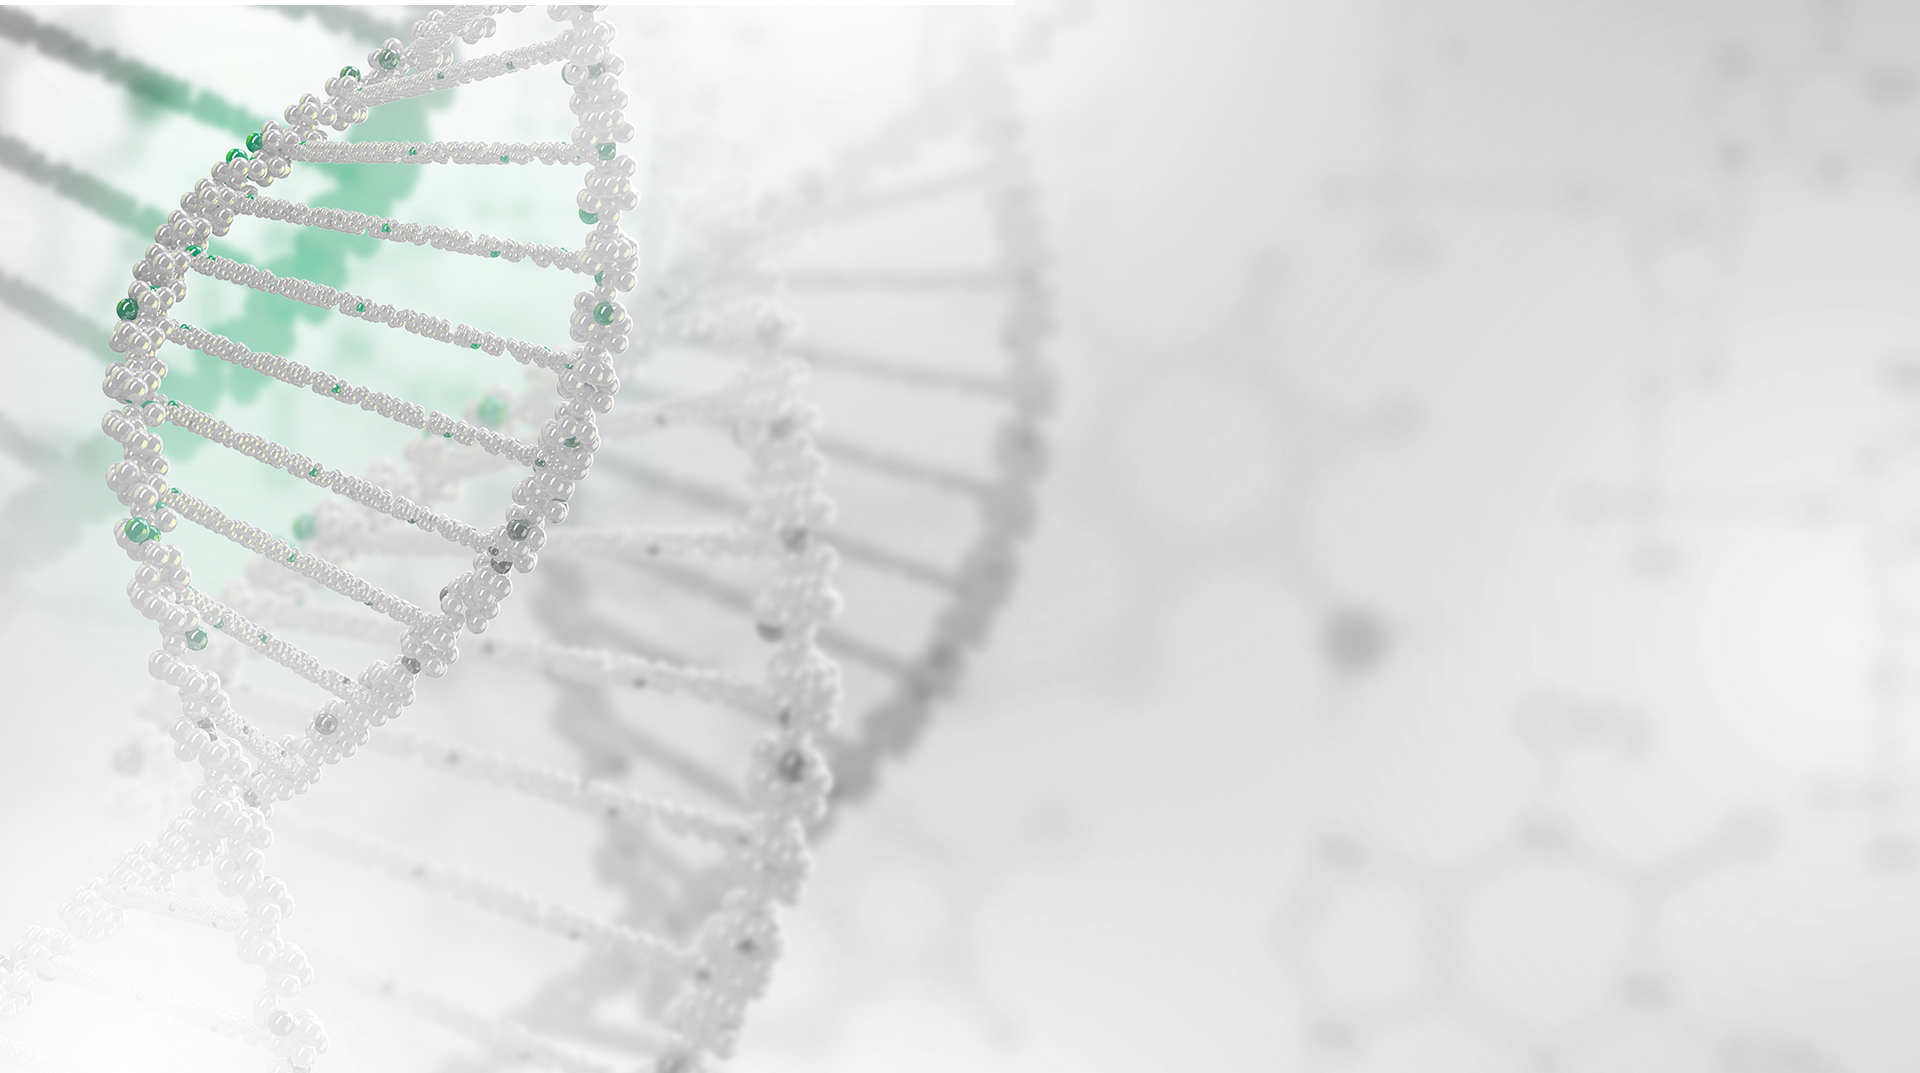
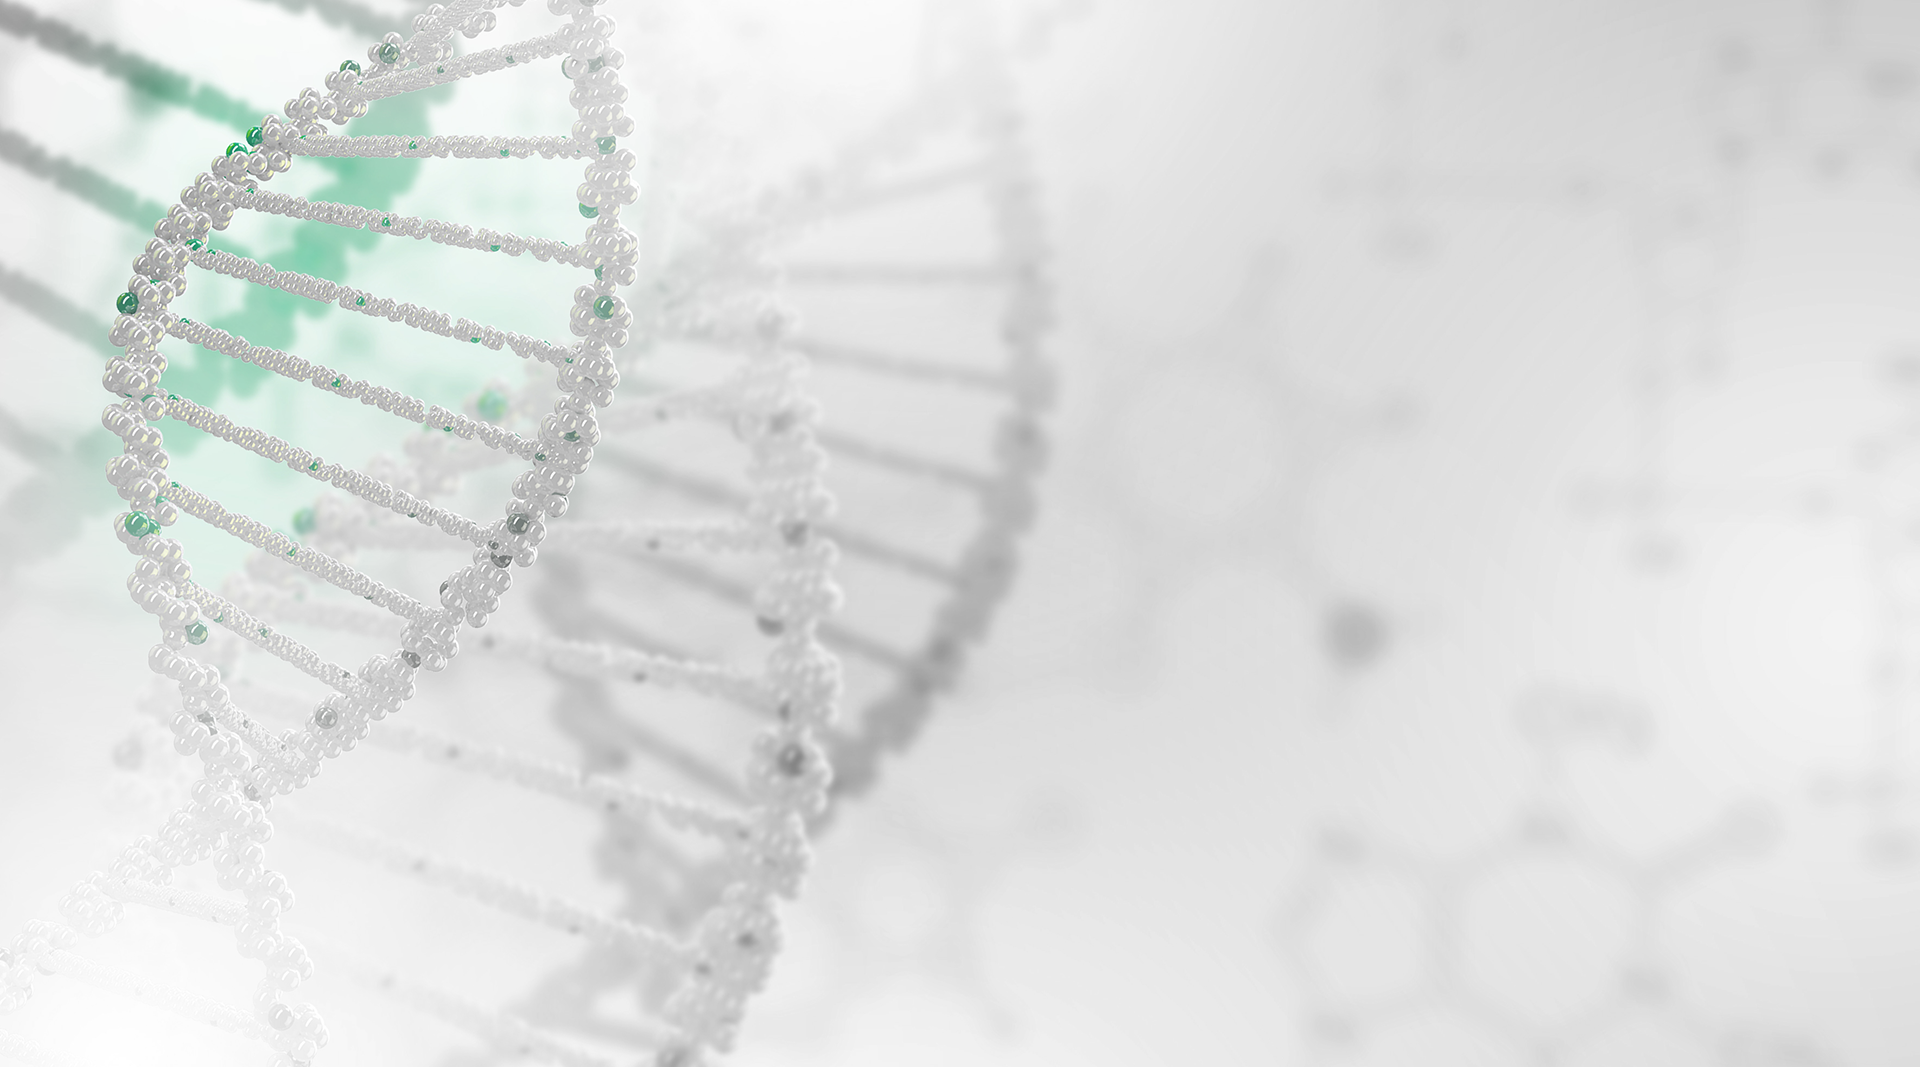
header 수정

diff --git a/css/index.css b/css/index.css
@@ -41,22 +41,21 @@ header {
 }
 
 .swiper-slide:nth-child(1) {
-  background: url("../img/bg/index_bg_1.png") no-repeat;
-  background-size: cover;
+  background: url("../img/bg/index_bg_1.png") 0px 0px / 100% auto no-repeat;
 }
 
 .swiper-slide:nth-child(2) {
-  background: url("../img/bg/index_bg_2.png") no-repeat;
+  background: url("../img/bg/index_bg_2.png") 0px 0px / 100% auto no-repeat;
   background-size: cover;
 }
 
 .swiper-slide:nth-child(3) {
-  background: url("../img/bg/index_bg_3.png") no-repeat;
+  background: url("../img/bg/index_bg_3.png") 0px 0px / 100% auto no-repeat;
   background-size: cover;
 }
 
 .swiper-slide:nth-child(4) {
-  background: url("../img/bg/index_bg_4.png") no-repeat;
+  background: url("../img/bg/index_bg_4.png") 0px 0px / 100% auto no-repeat;
   background-size: cover;
 }
 
@@ -70,4 +69,26 @@ header {
   height: 100%;
   background: url("../img/bg/index_bg_5.png") no-repeat;
   background-size: cover;
+}
+
+.swiper-container-vertical > .swiper-pagination-bullets {
+  right: 11%;
+}
+
+.swiper-pagination-bullet {
+  width: 16px;
+  height: 16px;
+  border: 1px solid #fabe00;
+  opacity: 1;
+  background: transparent;
+}
+
+.swiper-pagination-bullet-active {
+  background: #fabe00;
+}
+
+.swiper-container-vertical
+  > .swiper-pagination-bullets
+  .swiper-pagination-bullet {
+  margin: 24px 0;
 }

diff --git a/css/styles.css b/css/styles.css
@@ -100,7 +100,7 @@ body {
   align-items: center;
 }
 
-#menu ul li a {
+#menu ul.wrap li a {
   display: table;
   margin: auto;
   position: relative;
@@ -142,11 +142,12 @@ body {
   z-index: 1000;
 }
 
-#menu .sub_wrap li a {
+#menu ul.sub_wrap li a {
   position: relative;
   display: block;
   z-index: 1000;
   text-align: center;
+  color: transparent;
 }
 
 #header .side_btn {
@@ -197,6 +198,14 @@ body {
 }
 
 #header .header-area.active #menu ul li a {
+  font-size: 17px;
+  font-weight: bold;
+  line-height: 1.39;
+  letter-spacing: -0.17px;
+  color: #161616;
+}
+
+#header .header-area.active #menu ul.sub_wrap li a {
   font-size: 16px;
   font-weight: 300;
   line-height: 1.88;
@@ -204,7 +213,7 @@ body {
   color: #626262;
 }
 
-#header .header-area.active #menu ul li a:hover {
+#header .header-area.active #menu ul.sub_wrap li a:hover {
   font-weight: bold;
   color: #0075c1;
 }

diff --git a/kor/index.html b/kor/index.html
@@ -247,7 +247,7 @@
           }
         });
         $("#header .header-area").bind("mouseleave", function () {
-          $("#header .header-area").stop().animate({ height: "100px" }, 150);
+          $("#header .header-area").stop().animate({ height: "100px" }, 100);
           $("#menu ul li.on").removeClass("on");
           if (swiper.realIndex === 0) {
             $("#header .header-area").removeClass("active");
